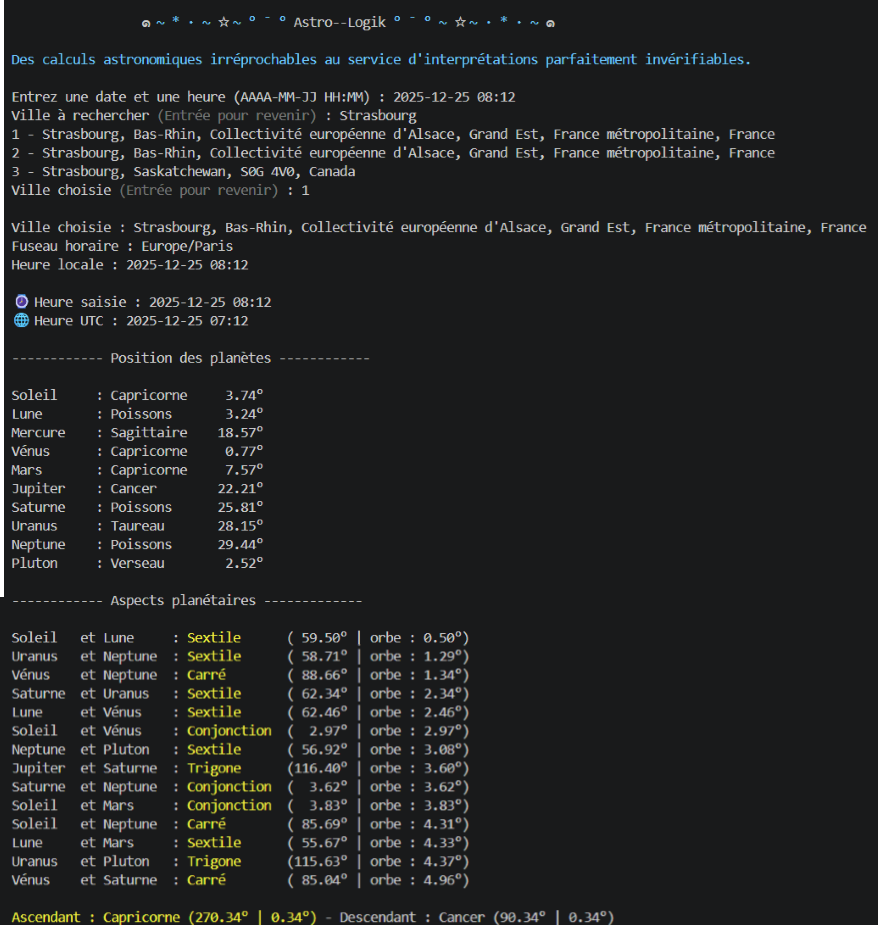
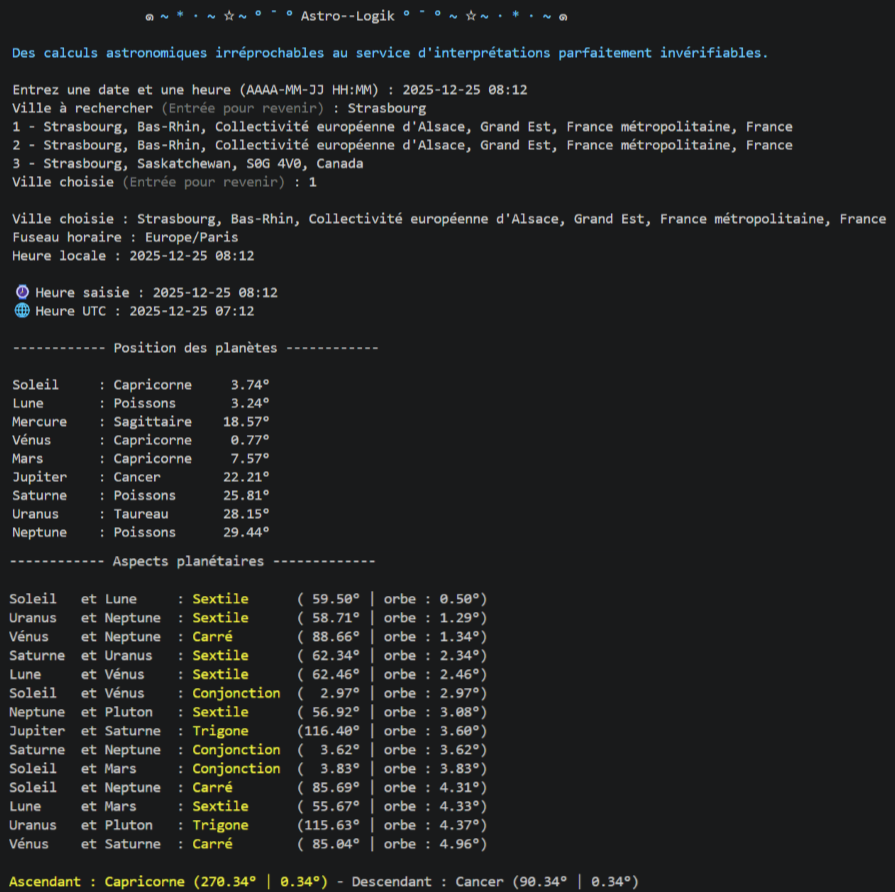
docs : minor change

Changed region(s): [[0.0, 0.0, 1.0, 1.0], [0.3383, 0.3632, 0.3998, 0.3935]]

diff --git a/readme.md b/readme.md
@@ -36,7 +36,7 @@ L'objectif est de développer progressivement une application capable de calcule
 
 ## 📸 Aperçu du programme
 
-<img src="pictures/astroprov.png" alt="Capture d'écran d'ASTROLOGIK" width="750">
+<img src="pictures/astroprov.png" alt="Capture d'écran d'ASTROLOGIK" width="950">
 
 ## 🛠 Technologies utilisées
 
